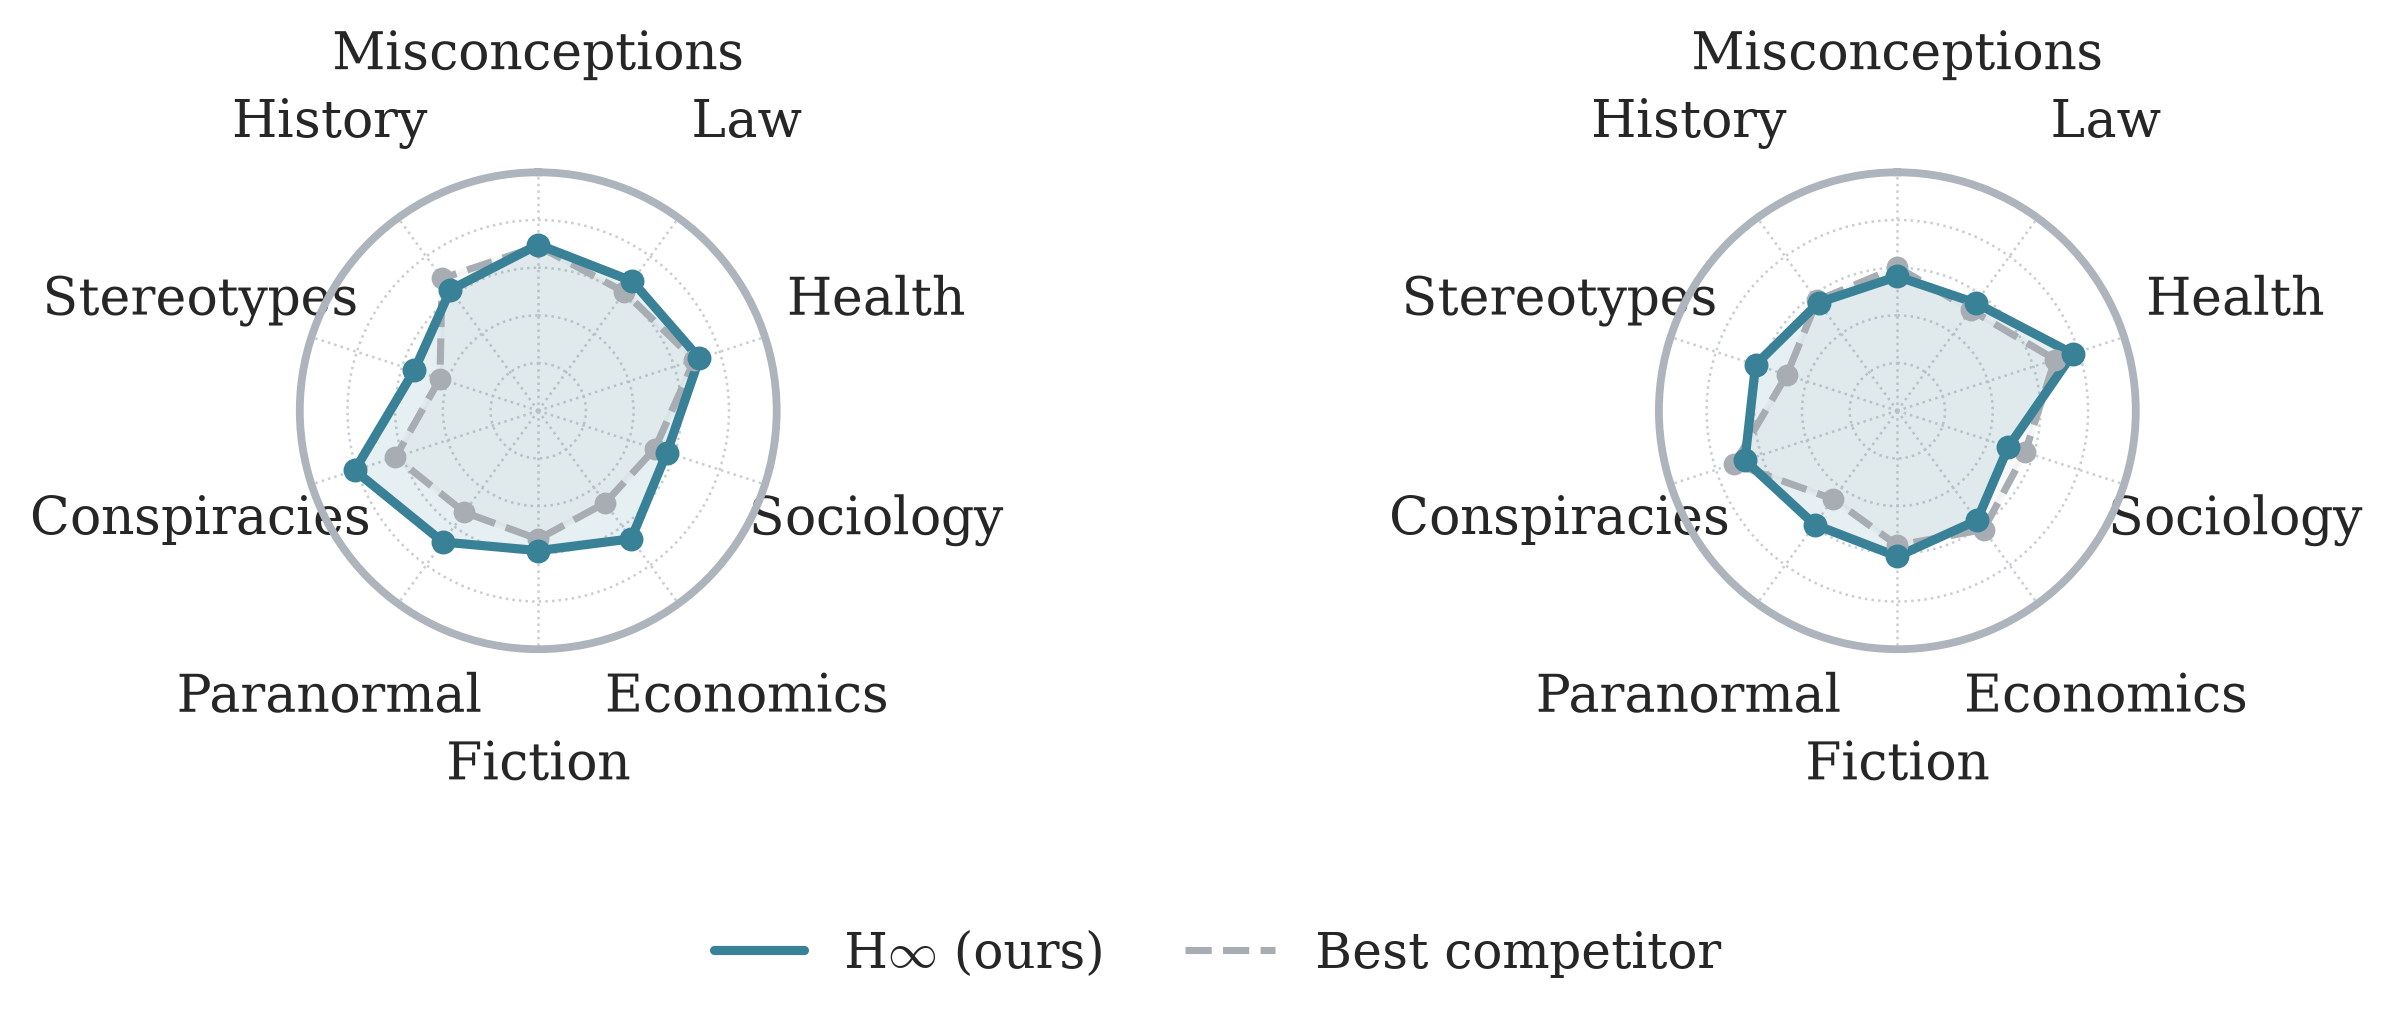
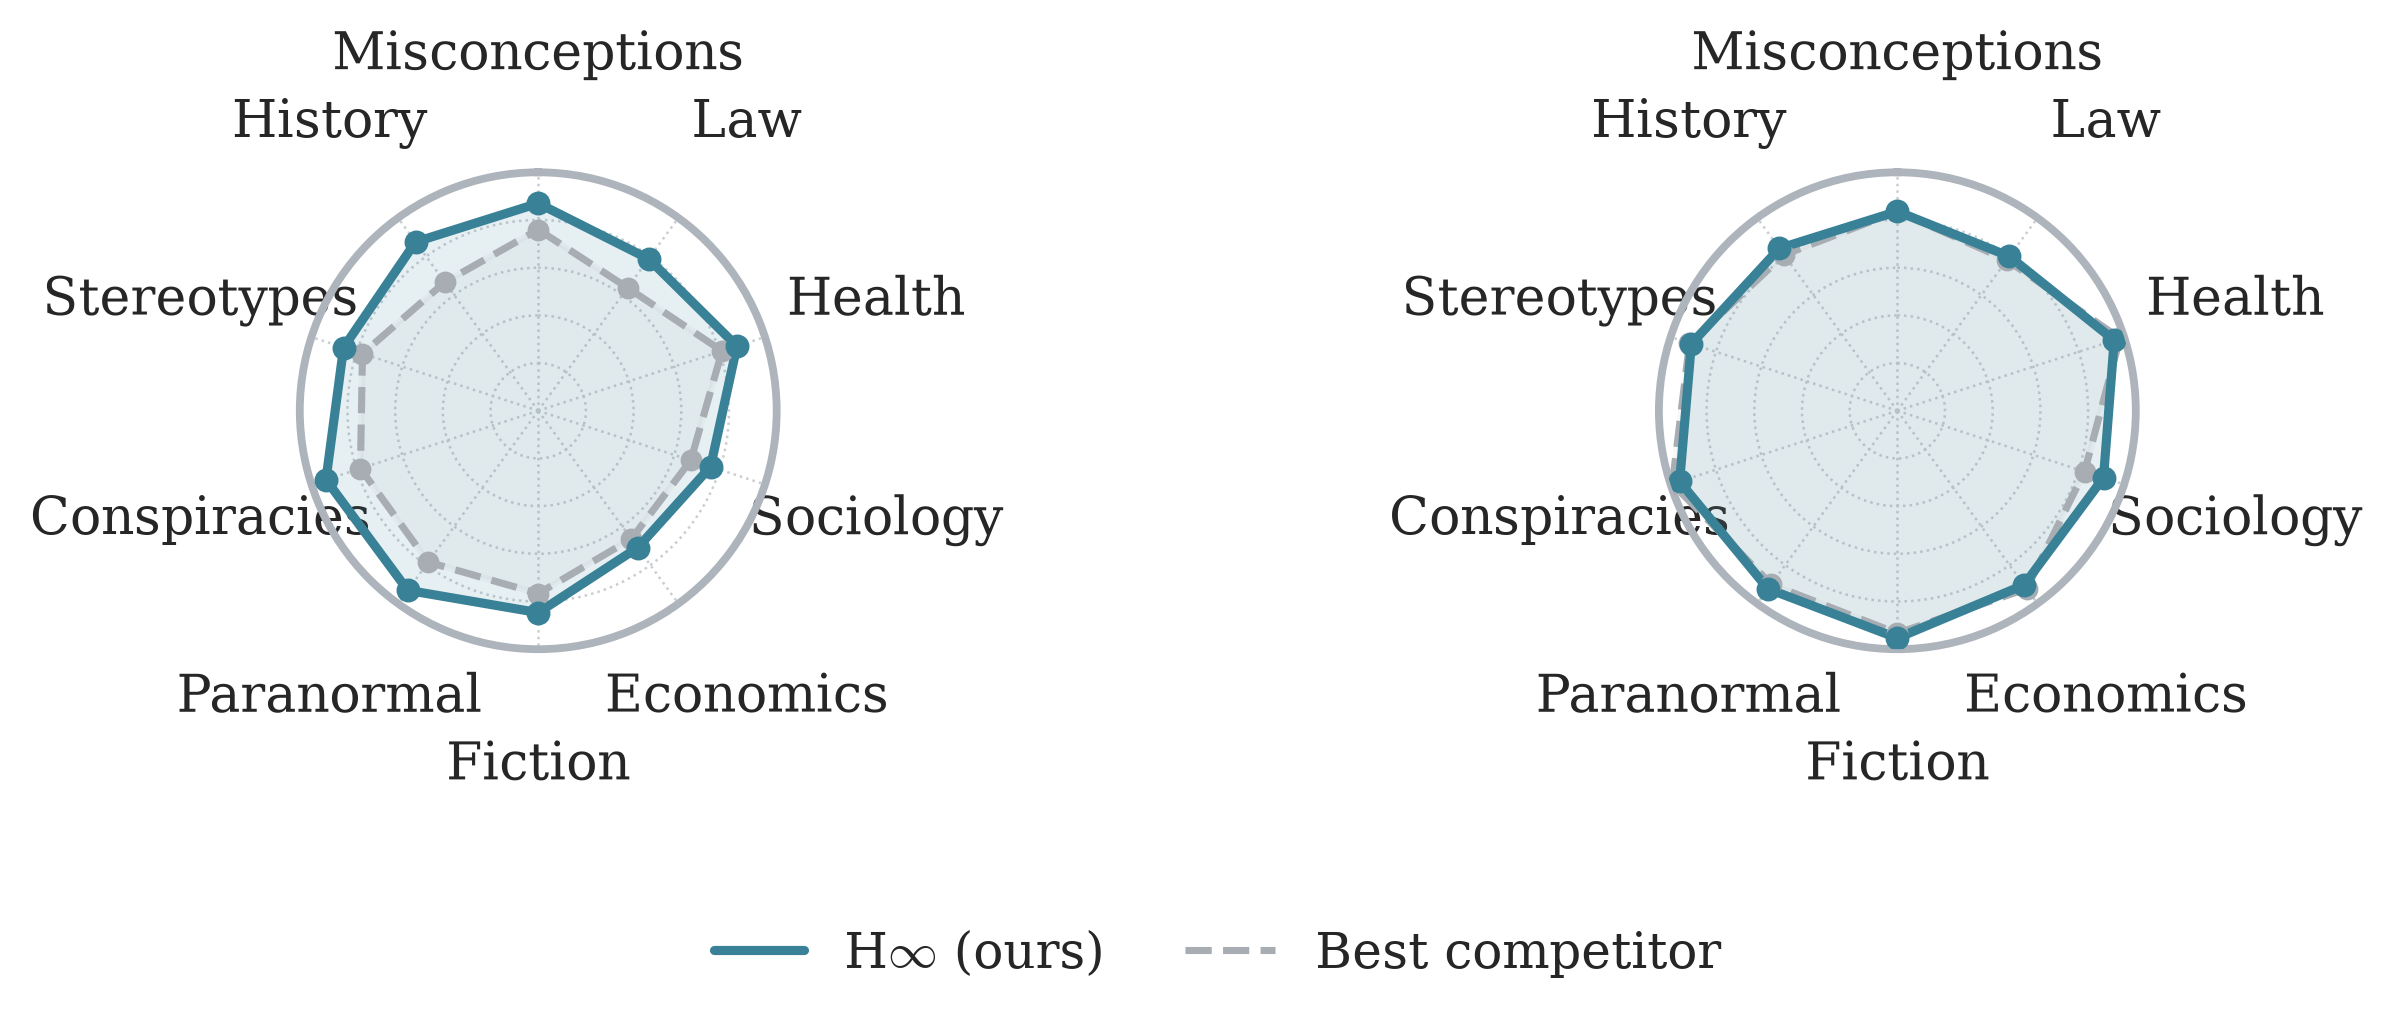
Use truthfulness for best-model radar variant

Changed region(s): [[0.6806, 0.1864, 0.8972, 0.6214], [0.1237, 0.1864, 0.3094, 0.6214]]

diff --git a/figs/figure_truthful/figure_truthful.py b/figs/figure_truthful/figure_truthful.py
@@ -395,7 +395,10 @@ def draw_frontier(
     right_ax.spines["left"].set_color("#AEB4BC")
 
 
-def category_radar_values(model: str | None = None) -> tuple[
+def category_radar_values(
+    model: str | None = None,
+    metric: str = "txi_pct",
+) -> tuple[
     list[str], dict[str, tuple[list[float], list[float]]]
 ]:
     rows = list(csv.DictReader(CATEGORY_CACHE.open()))
@@ -418,10 +421,10 @@ def category_radar_values(model: str | None = None) -> tuple[
                 ours = next(row for row in model_rows if row["method"] == "H∞ (ours)")
                 best = max(
                     (row for row in model_rows if row["method"] != "H∞ (ours)"),
-                    key=lambda row: float(row["txi_pct"]),
+                    key=lambda row: float(row[metric]),
                 )
-                ours_points.append(float(ours["txi_pct"]))
-                best_points.append(float(best["txi_pct"]))
+                ours_points.append(float(ours[metric]))
+                best_points.append(float(best[metric]))
 
             ours_by_split[(split, category)] = float(np.mean(ours_points))
             best_by_split[(split, category)] = float(np.mean(best_points))
@@ -436,7 +439,7 @@ def category_radar_values(model: str | None = None) -> tuple[
     return categories, values
 
 
-def best_radar_model() -> tuple[str, dict[str, float]]:
+def best_radar_model(metric: str) -> tuple[str, dict[str, float]]:
     rows = list(csv.DictReader(CATEGORY_CACHE.open()))
     grouped: dict[tuple[str, str, str], list[dict[str, str]]] = defaultdict(list)
     for row in rows:
@@ -444,12 +447,12 @@ def best_radar_model() -> tuple[str, dict[str, float]]:
     margins: dict[str, list[float]] = defaultdict(list)
     for (_, _, model), model_rows in grouped.items():
         ours = next(
-            float(row["txi_pct"])
+            float(row[metric])
             for row in model_rows
             if row["method"] == "H∞ (ours)"
         )
         competitor = max(
-            float(row["txi_pct"])
+            float(row[metric])
             for row in model_rows
             if row["method"] != "H∞ (ours)"
         )
@@ -467,10 +470,11 @@ def draw_radar(
     split: str,
     *,
     model: str | None = None,
+    metric: str = "txi_pct",
     label_fontsize: float = 8.6,
     label_pad: float = 10,
 ) -> None:
-    categories, values = category_radar_values(model)
+    categories, values = category_radar_values(model, metric)
     ours, best = values[split]
     angles = np.linspace(0, 2 * np.pi, len(categories), endpoint=False)
     angles = np.r_[angles, angles[0]]
@@ -674,7 +678,7 @@ def render_figure_c() -> None:
 
 
 def render_figure_c_best_model() -> tuple[str, dict[str, float]]:
-    model, mean_margins = best_radar_model()
+    model, mean_margins = best_radar_model("true_pct")
     fig = plt.figure(figsize=(6.8, 3.5))
     outer = fig.add_gridspec(
         1,
@@ -691,6 +695,7 @@ def render_figure_c_best_model() -> tuple[str, dict[str, float]]:
         radar_id_ax,
         "ID",
         model=model,
+        metric="true_pct",
         label_fontsize=12.5,
         label_pad=12,
     )
@@ -698,6 +703,7 @@ def render_figure_c_best_model() -> tuple[str, dict[str, float]]:
         radar_ood_ax,
         "OOD",
         model=model,
+        metric="true_pct",
         label_fontsize=12.5,
         label_pad=12,
     )

diff --git a/figs/figure_truthful/README.md b/figs/figure_truthful/README.md
@@ -53,9 +53,10 @@
 - `plots/figure_truthful_c.pdf` and `.png`: paired English/Spanish category
   robustness radars.
 - `plots/figure_truthful_c_best_model.pdf` and `.png`: compact variant using
-  the single model with the largest mean H∞ minus best-competitor category
-  T×I margin across both splits. The current finalized data select
-  **LLaMA-3-8B** (mean margin: 4.856 percentage points).
+  category-level True (%) only. It selects the single model with the largest
+  mean H∞ minus best-competitor truthfulness margin across both splits, then
+  plots H∞ and that strongest truthfulness competitor. The current finalized
+  data select **Qwen-2.5-14B** (mean margin: 6.107 percentage points).
 - `cache/truthfulqa_category_txi.csv`: auditable category-level source values,
   including the exact scorer artifact paths.
 
